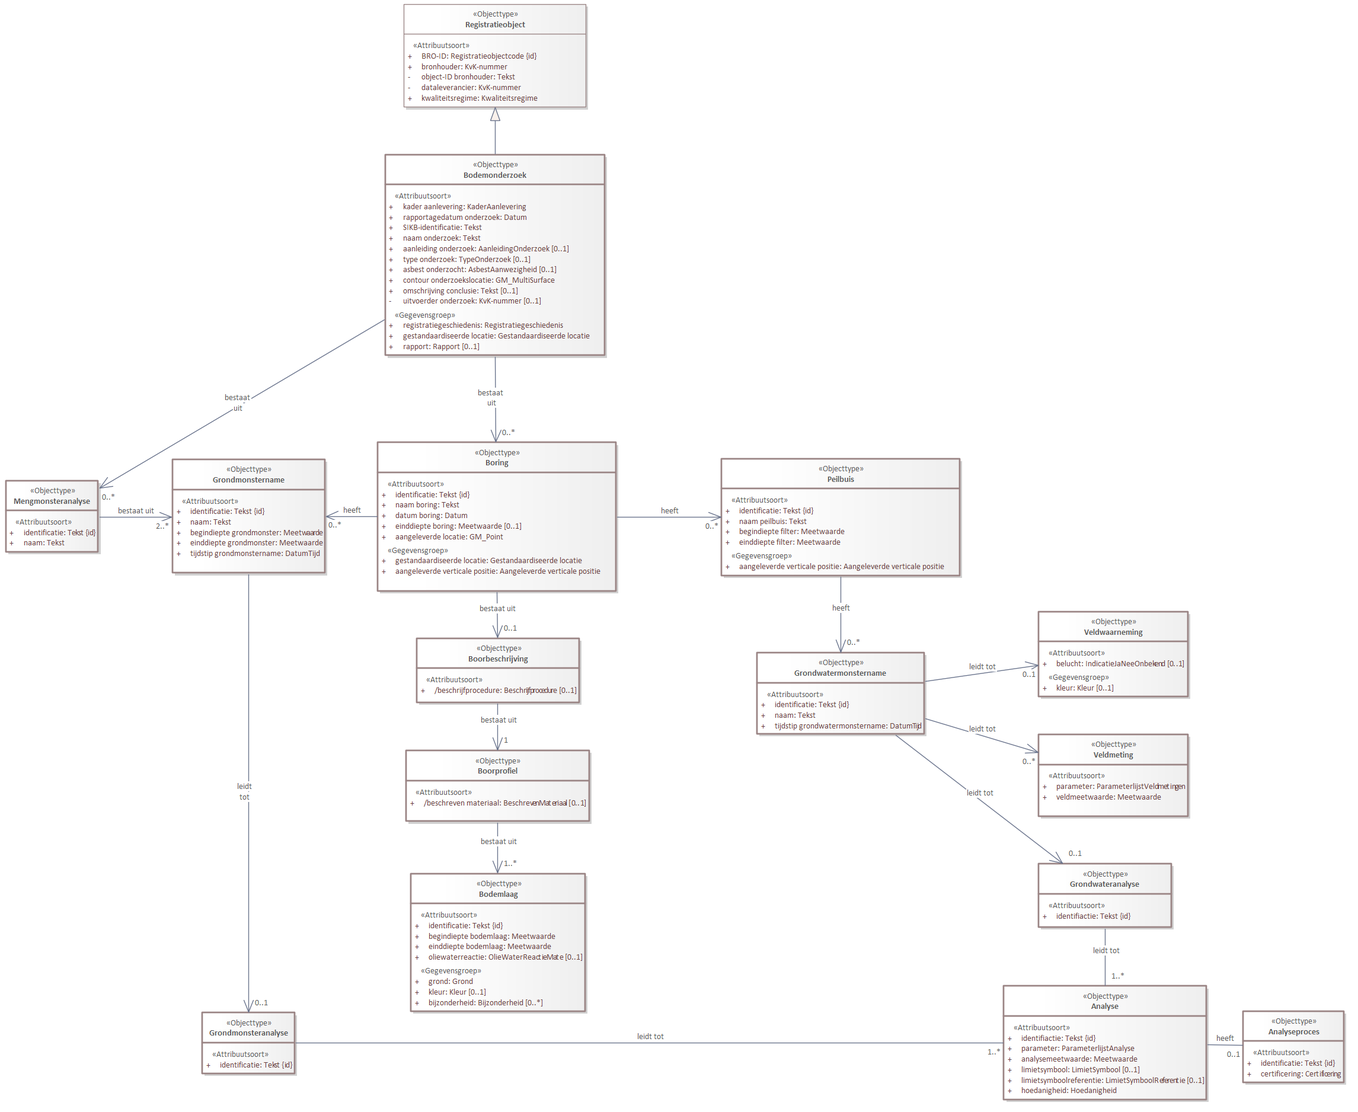
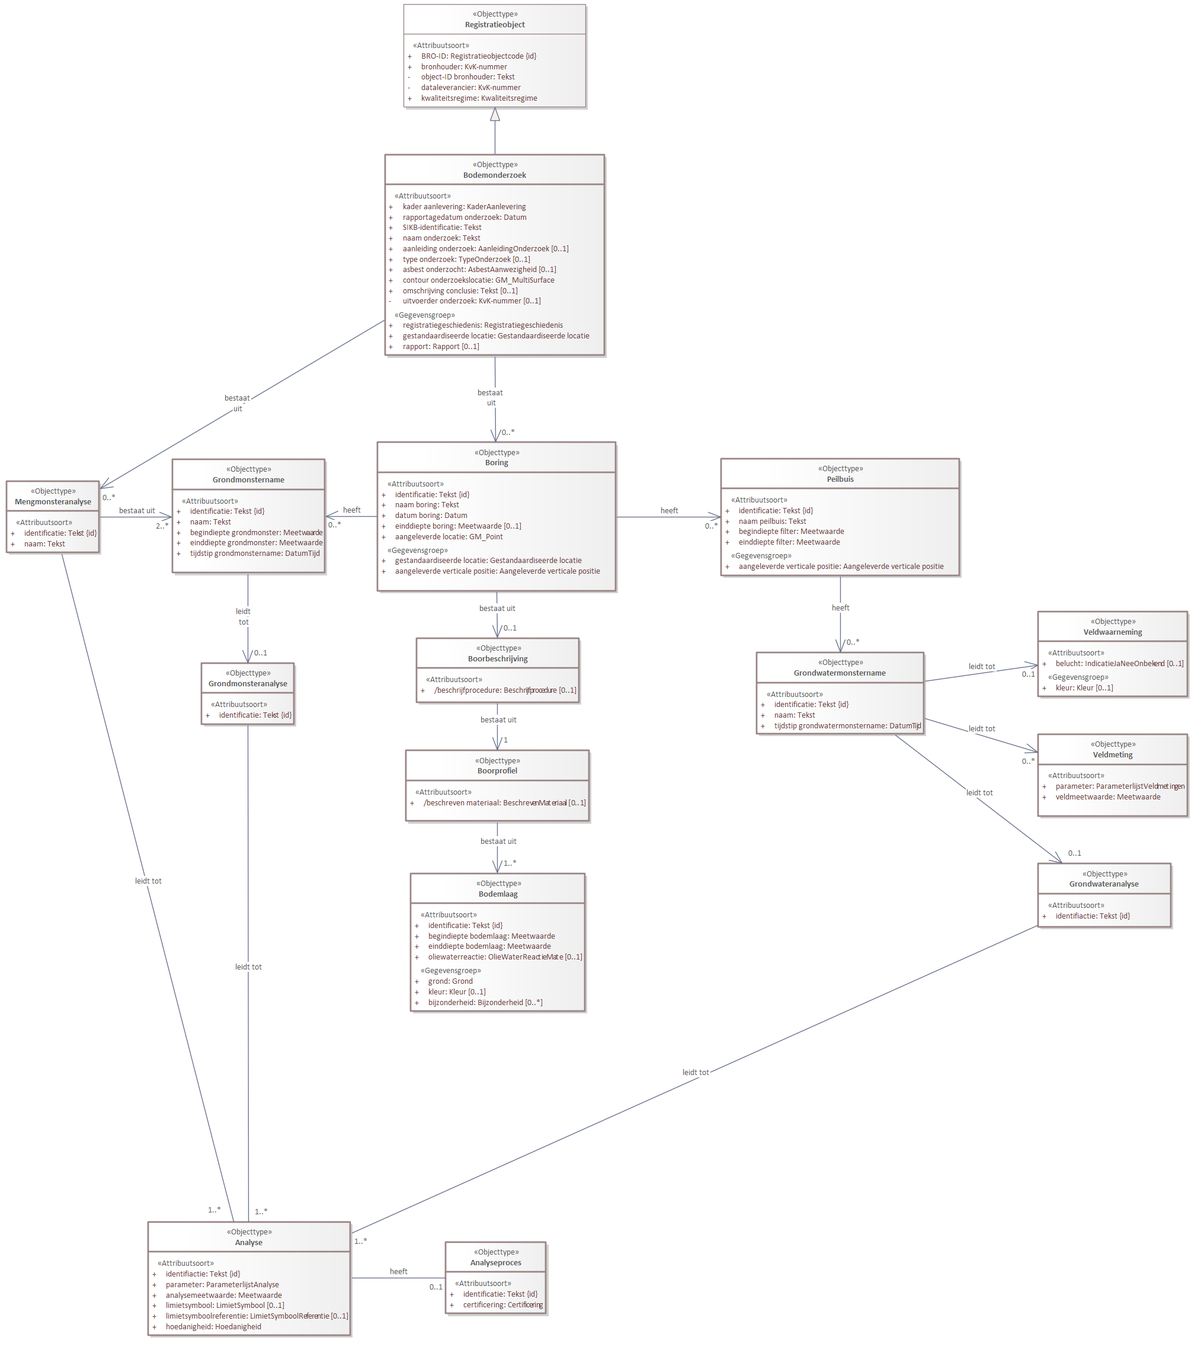
Conceptualmodel-MilieuhygienischbodemonderzoekSAD-0.2-1-20230126-20230504-060329

diff --git a/data/SAD-cat.msword.html b/data/SAD-cat.msword.html
@@ -15,7 +15,7 @@
    <body>
       <p>Conceptual model/Milieuhygienisch bodemonderzoek SAD/20230126</p>
       <p>Imvertor: 2.0.0</p>
-      <p>Model release: Conceptualmodel-MilieuhygienischbodemonderzoekSAD-0.2-1-20230126-20230504-055813</p>
+      <p>Model release: Conceptualmodel-MilieuhygienischbodemonderzoekSAD-0.2-1-20230126-20230504-060329</p>
       <hr>
       <section>
          <h1>Artikel 1 Definitie van registratieobject, entiteiten en attributen</h1>
@@ -65,7 +65,7 @@
          <section>
             <h2>Het domeinmodel</h2>
             <section id="">
-               <div class="imageinfo overview"><img src="Images/EAID_FABA90F8_223C_433d_BAE3_74F87B3DC220.png" usemap="#imagemap-EAID_FABA90F8_223C_433d_BAE3_74F87B3DC220" alt="Diagram &#xA;                        &#xA;                     "><map name="imagemap-EAID_FABA90F8_223C_433d_BAE3_74F87B3DC220"><area shape="rect" alt="Analyseproces" coords="2097,1706,2268,1827" href="#graph_EAID_89FCADC6_B091_492b_94BD_37324C7637EA"><area shape="rect" alt="Analyse" coords="1693,1663,2036,1856" href="#graph_EAID_AE9CD58D_588C_44cf_A7B7_09EDB181B001"><area shape="rect" alt="Grondwateranalyse" coords="1752,1457,1977,1565" href="#graph_EAID_50237BC0_6FD9_482a_841F_A44137C00FCA"><area shape="rect" alt="Grondmonsteranalyse" coords="341,1708,498,1812" href="#graph_EAID_DFC0DB4F_7DC8_4920_917A_907819C6EC19"><area shape="rect" alt="Boorprofiel" coords="685,1266,995,1386" href="#graph_EAID_6CF3D55E_1BD5_4108_BEA5_8B69EB2D2097"><area shape="rect" alt="Boorbeschrijving" coords="703,1077,978,1186" href="#graph_EAID_080E44E6_527C_42db_BCF3_7400257377C2"><area shape="rect" alt="Veldmeting" coords="1752,1239,2005,1378" href="#graph_EAID_C348E314_A61B_43a0_AFED_083DA812EC5F"><area shape="rect" alt="Veldwaarneming" coords="1752,1032,2005,1176" href="#graph_EAID_A3A8A9F5_B12D_47e9_9D67_F12687999F0D"><area shape="rect" alt="Mengmonsteranalyse" coords="10,811,166,932" href="#graph_EAID_E7A3C99D_3348_4875_9BD5_4E0481E72C54"><area shape="rect" alt="Grondwatermonstername" coords="1277,1101,1560,1239" href="#graph_EAID_24B6DB20_4EA3_453f_B195_E642F22CC27C"><area shape="rect" alt="Grondmonstername" coords="291,775,549,967" href="#graph_EAID_8A8D6A0E_DAF9_415a_9AE7_09155A2C5869"><area shape="rect" alt="Peilbuis" coords="1217,774,1620,972" href="#graph_EAID_0075B243_E663_4ee7_9154_9D5DE12CCB21"><area shape="rect" alt="Bodemlaag" coords="693,1474,988,1707" href="#graph_EAID_88CF9E45_3E0E_40da_96C1_2CDD80B69F6F"><area shape="rect" alt="Boring" coords="637,746,1040,998" href="#graph_EAID_40FFF5B9_99C5_4c21_9D72_A3D1DD3C857F"><area shape="rect" alt="Registratieobject" coords="681,7,989,181" href="#graph_EAID_67DBE718_38E0_4ead_8649_72EA0B4A2355"><area shape="rect" alt="Bodemonderzoek" coords="650,261,1021,600" href="#graph_EAID_ABAADB49_C747_4775_A739_CC832CAD59F1"></map><p><b>Domeinmodel milieuhygienisch bodemonderzoek</b></p>
+               <div class="imageinfo overview"><img src="Images/EAID_FABA90F8_223C_433d_BAE3_74F87B3DC220.png" usemap="#imagemap-EAID_FABA90F8_223C_433d_BAE3_74F87B3DC220" alt="Diagram &#xA;                        &#xA;                     "><map name="imagemap-EAID_FABA90F8_223C_433d_BAE3_74F87B3DC220"><area shape="rect" alt="Analyseproces" coords="752,2096,922,2217" href="#graph_EAID_89FCADC6_B091_492b_94BD_37324C7637EA"><area shape="rect" alt="Analyse" coords="250,2062,592,2254" href="#graph_EAID_AE9CD58D_588C_44cf_A7B7_09EDB181B001"><area shape="rect" alt="Grondwateranalyse" coords="1752,1457,1977,1565" href="#graph_EAID_50237BC0_6FD9_482a_841F_A44137C00FCA"><area shape="rect" alt="Grondmonsteranalyse" coords="340,1119,497,1223" href="#graph_EAID_DFC0DB4F_7DC8_4920_917A_907819C6EC19"><area shape="rect" alt="Boorprofiel" coords="685,1266,995,1386" href="#graph_EAID_6CF3D55E_1BD5_4108_BEA5_8B69EB2D2097"><area shape="rect" alt="Boorbeschrijving" coords="703,1077,978,1186" href="#graph_EAID_080E44E6_527C_42db_BCF3_7400257377C2"><area shape="rect" alt="Veldmeting" coords="1752,1239,2005,1378" href="#graph_EAID_C348E314_A61B_43a0_AFED_083DA812EC5F"><area shape="rect" alt="Veldwaarneming" coords="1752,1032,2005,1176" href="#graph_EAID_A3A8A9F5_B12D_47e9_9D67_F12687999F0D"><area shape="rect" alt="Mengmonsteranalyse" coords="11,812,168,933" href="#graph_EAID_E7A3C99D_3348_4875_9BD5_4E0481E72C54"><area shape="rect" alt="Grondwatermonstername" coords="1277,1101,1560,1239" href="#graph_EAID_24B6DB20_4EA3_453f_B195_E642F22CC27C"><area shape="rect" alt="Grondmonstername" coords="291,775,549,967" href="#graph_EAID_8A8D6A0E_DAF9_415a_9AE7_09155A2C5869"><area shape="rect" alt="Peilbuis" coords="1217,774,1620,972" href="#graph_EAID_0075B243_E663_4ee7_9154_9D5DE12CCB21"><area shape="rect" alt="Bodemlaag" coords="693,1474,988,1707" href="#graph_EAID_88CF9E45_3E0E_40da_96C1_2CDD80B69F6F"><area shape="rect" alt="Boring" coords="637,746,1040,998" href="#graph_EAID_40FFF5B9_99C5_4c21_9D72_A3D1DD3C857F"><area shape="rect" alt="Registratieobject" coords="681,7,989,181" href="#graph_EAID_67DBE718_38E0_4ead_8649_72EA0B4A2355"><area shape="rect" alt="Bodemonderzoek" coords="650,261,1021,600" href="#graph_EAID_ABAADB49_C747_4775_A739_CC832CAD59F1"></map><p><b>Domeinmodel milieuhygienisch bodemonderzoek</b></p>
                </div>
             </section>
          </section>
@@ -578,7 +578,7 @@
                            </tr>
                         </tbody>
                      </table>
-                     </section><a class="anchor" id="detail_d92947e3450"></a><section id="detail_d92947e3450">
+                     </section><a class="anchor" id="detail_d93187e3450"></a><section id="detail_d93187e3450">
                      <h4>  registratiegeschiedenis</h4>
                      <table style="width: 100%;">
                         <colgroup style="width: 30%;"></colgroup>
@@ -611,7 +611,7 @@
                            </tr>
                         </tbody>
                      </table>
-                  </section><a class="anchor" id="detail_d92947e3635"></a><section id="detail_d92947e3635">
+                  </section><a class="anchor" id="detail_d93187e3635"></a><section id="detail_d93187e3635">
                      <h4>  gestandaardiseerde locatie</h4>
                      <table style="width: 100%;">
                         <colgroup style="width: 30%;"></colgroup>
@@ -654,7 +654,7 @@
                            </tr>
                         </tbody>
                      </table>
-                  </section><a class="anchor" id="detail_d92947e3869"></a><section id="detail_d92947e3869">
+                  </section><a class="anchor" id="detail_d93187e3869"></a><section id="detail_d93187e3869">
                      <h4>  rapport</h4>
                      <table style="width: 100%;">
                         <colgroup style="width: 30%;"></colgroup>
@@ -1845,7 +1845,7 @@
                            </tr>
                         </tbody>
                      </table>
-                     </section><a class="anchor" id="detail_d92947e8500"></a><section id="detail_d92947e8500">
+                     </section><a class="anchor" id="detail_d93187e8500"></a><section id="detail_d93187e8500">
                      <h4>  gestandaardiseerde locatie</h4>
                      <table style="width: 100%;">
                         <colgroup style="width: 30%;"></colgroup>
@@ -1879,7 +1879,7 @@
                            </tr>
                         </tbody>
                      </table>
-                  </section><a class="anchor" id="detail_d92947e8685"></a><section id="detail_d92947e8685">
+                  </section><a class="anchor" id="detail_d93187e8685"></a><section id="detail_d93187e8685">
                      <h4>  aangeleverde verticale positie</h4>
                      <table style="width: 100%;">
                         <colgroup style="width: 30%;"></colgroup>
@@ -2680,7 +2680,7 @@
                            </tr>
                         </tbody>
                      </table>
-                     </section><a class="anchor" id="detail_d92947e11206"></a><section id="detail_d92947e11206">
+                     </section><a class="anchor" id="detail_d93187e11206"></a><section id="detail_d93187e11206">
                      <h4>  grond</h4>
                      <table style="width: 100%;">
                         <colgroup style="width: 30%;"></colgroup>
@@ -2713,7 +2713,7 @@
                            </tr>
                         </tbody>
                      </table>
-                  </section><a class="anchor" id="detail_d92947e11391"></a><section id="detail_d92947e11391">
+                  </section><a class="anchor" id="detail_d93187e11391"></a><section id="detail_d93187e11391">
                      <h4>  kleur</h4>
                      <table style="width: 100%;">
                         <colgroup style="width: 30%;"></colgroup>
@@ -2746,7 +2746,7 @@
                            </tr>
                         </tbody>
                      </table>
-                  </section><a class="anchor" id="detail_d92947e11576"></a><section id="detail_d92947e11576">
+                  </section><a class="anchor" id="detail_d93187e11576"></a><section id="detail_d93187e11576">
                      <h4>  bijzonderheid</h4>
                      <table style="width: 100%;">
                         <colgroup style="width: 30%;"></colgroup>
@@ -3823,7 +3823,49 @@
                            </tr>
                         </tbody>
                      </table>
-                     </section><a class="anchor" id="detail_association_Model_Mengmonsteranalyse_Grondmonstername"></a><section id="detail_association_Model_Mengmonsteranalyse_Grondmonstername">
+                     </section><a class="anchor" id="detail_association_Model_Mengmonsteranalyse_Mengmonsteranalyse"></a><section id="detail_association_Model_Mengmonsteranalyse_Mengmonsteranalyse">
+                     <h4>  Mengmonsteranalyse</h4>
+                     <table style="width: 100%;">
+                        <colgroup style="width: 30%;"></colgroup>
+                        <colgroup style="width: 70%;"></colgroup>
+                        <tbody>
+                           <tr>
+                              <th>Type gegeven</th>
+                              <td>Associatie van Mengmonsteranalyse</td>
+                           </tr>
+                           <tr>
+                              <th>Definitie</th>
+                              <td>
+                                 
+                                 <p>De uitkomsten van de metingen aan parameters die in het laboratorium aan het gemengde
+                                    grondmonsters zijn uitgevoerd.</p>
+                                 </td>
+                           </tr>
+                           <tr>
+                              <th>Kardinaliteit</th>
+                              <td>1..*</td>
+                           </tr>
+                           <tr>
+                              <th>Relatiesoort naam</th>
+                              <td>leidt tot</td>
+                           </tr>
+                           <tr>
+                              <th>Relatierol naam</th>
+                              <td>Mengmonsteranalyse</td>
+                           </tr>
+                           <tr>
+                              <th>Bron</th>
+                              <td>Mengmonsteranalyse</td>
+                           </tr>
+                           <tr>
+                              <th>Doel</th>
+                              <td>
+                                 Analyse
+                                 </td>
+                           </tr>
+                        </tbody>
+                     </table>
+                  </section><a class="anchor" id="detail_association_Model_Mengmonsteranalyse_Grondmonstername"></a><section id="detail_association_Model_Mengmonsteranalyse_Grondmonstername">
                      <h4>  Grondmonstername</h4>
                      <table style="width: 100%;">
                         <colgroup style="width: 30%;"></colgroup>
@@ -4060,7 +4102,7 @@
                            </tr>
                         </tbody>
                      </table>
-                     </section><a class="anchor" id="detail_d92947e16706"></a><section id="detail_d92947e16706">
+                     </section><a class="anchor" id="detail_d93187e16865"></a><section id="detail_d93187e16865">
                      <h4>  aangeleverde verticale positie</h4>
                      <table style="width: 100%;">
                         <colgroup style="width: 30%;"></colgroup>
@@ -4466,7 +4508,7 @@
                            </tr>
                         </tbody>
                      </table>
-                     </section><a class="anchor" id="detail_d92947e18161"></a><section id="detail_d92947e18161">
+                     </section><a class="anchor" id="detail_d93187e18320"></a><section id="detail_d93187e18320">
                      <h4>  kleur</h4>
                      <table style="width: 100%;">
                         <colgroup style="width: 30%;"></colgroup>

diff --git a/data/SAD-cat.respec.html b/data/SAD-cat.respec.html
@@ -43,7 +43,7 @@
       </section>
    <section id="">
       <h2>Het domeinmodel   </h2>
-      <div class="imageinfo overview"><img src="data/Images/EAID_FABA90F8_223C_433d_BAE3_74F87B3DC220.png" usemap="#imagemap-EAID_FABA90F8_223C_433d_BAE3_74F87B3DC220" alt="Diagram &#xA;                        &#xA;                     "><map name="imagemap-EAID_FABA90F8_223C_433d_BAE3_74F87B3DC220"><area shape="rect" alt="Analyseproces" coords="2097,1706,2268,1827" href="#graph_EAID_89FCADC6_B091_492b_94BD_37324C7637EA"><area shape="rect" alt="Analyse" coords="1693,1663,2036,1856" href="#graph_EAID_AE9CD58D_588C_44cf_A7B7_09EDB181B001"><area shape="rect" alt="Grondwateranalyse" coords="1752,1457,1977,1565" href="#graph_EAID_50237BC0_6FD9_482a_841F_A44137C00FCA"><area shape="rect" alt="Grondmonsteranalyse" coords="341,1708,498,1812" href="#graph_EAID_DFC0DB4F_7DC8_4920_917A_907819C6EC19"><area shape="rect" alt="Boorprofiel" coords="685,1266,995,1386" href="#graph_EAID_6CF3D55E_1BD5_4108_BEA5_8B69EB2D2097"><area shape="rect" alt="Boorbeschrijving" coords="703,1077,978,1186" href="#graph_EAID_080E44E6_527C_42db_BCF3_7400257377C2"><area shape="rect" alt="Veldmeting" coords="1752,1239,2005,1378" href="#graph_EAID_C348E314_A61B_43a0_AFED_083DA812EC5F"><area shape="rect" alt="Veldwaarneming" coords="1752,1032,2005,1176" href="#graph_EAID_A3A8A9F5_B12D_47e9_9D67_F12687999F0D"><area shape="rect" alt="Mengmonsteranalyse" coords="10,811,166,932" href="#graph_EAID_E7A3C99D_3348_4875_9BD5_4E0481E72C54"><area shape="rect" alt="Grondwatermonstername" coords="1277,1101,1560,1239" href="#graph_EAID_24B6DB20_4EA3_453f_B195_E642F22CC27C"><area shape="rect" alt="Grondmonstername" coords="291,775,549,967" href="#graph_EAID_8A8D6A0E_DAF9_415a_9AE7_09155A2C5869"><area shape="rect" alt="Peilbuis" coords="1217,774,1620,972" href="#graph_EAID_0075B243_E663_4ee7_9154_9D5DE12CCB21"><area shape="rect" alt="Bodemlaag" coords="693,1474,988,1707" href="#graph_EAID_88CF9E45_3E0E_40da_96C1_2CDD80B69F6F"><area shape="rect" alt="Boring" coords="637,746,1040,998" href="#graph_EAID_40FFF5B9_99C5_4c21_9D72_A3D1DD3C857F"><area shape="rect" alt="Registratieobject" coords="681,7,989,181" href="#graph_EAID_67DBE718_38E0_4ead_8649_72EA0B4A2355"><area shape="rect" alt="Bodemonderzoek" coords="650,261,1021,600" href="#graph_EAID_ABAADB49_C747_4775_A739_CC832CAD59F1"></map><p><b>Domeinmodel milieuhygienisch bodemonderzoek</b></p>
+      <div class="imageinfo overview"><img src="data/Images/EAID_FABA90F8_223C_433d_BAE3_74F87B3DC220.png" usemap="#imagemap-EAID_FABA90F8_223C_433d_BAE3_74F87B3DC220" alt="Diagram &#xA;                        &#xA;                     "><map name="imagemap-EAID_FABA90F8_223C_433d_BAE3_74F87B3DC220"><area shape="rect" alt="Analyseproces" coords="752,2096,922,2217" href="#graph_EAID_89FCADC6_B091_492b_94BD_37324C7637EA"><area shape="rect" alt="Analyse" coords="250,2062,592,2254" href="#graph_EAID_AE9CD58D_588C_44cf_A7B7_09EDB181B001"><area shape="rect" alt="Grondwateranalyse" coords="1752,1457,1977,1565" href="#graph_EAID_50237BC0_6FD9_482a_841F_A44137C00FCA"><area shape="rect" alt="Grondmonsteranalyse" coords="340,1119,497,1223" href="#graph_EAID_DFC0DB4F_7DC8_4920_917A_907819C6EC19"><area shape="rect" alt="Boorprofiel" coords="685,1266,995,1386" href="#graph_EAID_6CF3D55E_1BD5_4108_BEA5_8B69EB2D2097"><area shape="rect" alt="Boorbeschrijving" coords="703,1077,978,1186" href="#graph_EAID_080E44E6_527C_42db_BCF3_7400257377C2"><area shape="rect" alt="Veldmeting" coords="1752,1239,2005,1378" href="#graph_EAID_C348E314_A61B_43a0_AFED_083DA812EC5F"><area shape="rect" alt="Veldwaarneming" coords="1752,1032,2005,1176" href="#graph_EAID_A3A8A9F5_B12D_47e9_9D67_F12687999F0D"><area shape="rect" alt="Mengmonsteranalyse" coords="11,812,168,933" href="#graph_EAID_E7A3C99D_3348_4875_9BD5_4E0481E72C54"><area shape="rect" alt="Grondwatermonstername" coords="1277,1101,1560,1239" href="#graph_EAID_24B6DB20_4EA3_453f_B195_E642F22CC27C"><area shape="rect" alt="Grondmonstername" coords="291,775,549,967" href="#graph_EAID_8A8D6A0E_DAF9_415a_9AE7_09155A2C5869"><area shape="rect" alt="Peilbuis" coords="1217,774,1620,972" href="#graph_EAID_0075B243_E663_4ee7_9154_9D5DE12CCB21"><area shape="rect" alt="Bodemlaag" coords="693,1474,988,1707" href="#graph_EAID_88CF9E45_3E0E_40da_96C1_2CDD80B69F6F"><area shape="rect" alt="Boring" coords="637,746,1040,998" href="#graph_EAID_40FFF5B9_99C5_4c21_9D72_A3D1DD3C857F"><area shape="rect" alt="Registratieobject" coords="681,7,989,181" href="#graph_EAID_67DBE718_38E0_4ead_8649_72EA0B4A2355"><area shape="rect" alt="Bodemonderzoek" coords="650,261,1021,600" href="#graph_EAID_ABAADB49_C747_4775_A739_CC832CAD59F1"></map><p><b>Domeinmodel milieuhygienisch bodemonderzoek</b></p>
       </div>
    </section>
    <section id="">
@@ -554,7 +554,7 @@
                   </tr>
                </tbody>
             </table>
-            </section><a class="anchor" id="detail_d92947e3450"></a><section id="detail_d92947e3450">
+            </section><a class="anchor" id="detail_d93187e3450"></a><section id="detail_d93187e3450">
             <h4>  registratiegeschiedenis</h4>
             <table style="width: 100%;">
                <colgroup style="width: 30%;"></colgroup>
@@ -587,7 +587,7 @@
                   </tr>
                </tbody>
             </table>
-         </section><a class="anchor" id="detail_d92947e3635"></a><section id="detail_d92947e3635">
+         </section><a class="anchor" id="detail_d93187e3635"></a><section id="detail_d93187e3635">
             <h4>  gestandaardiseerde locatie</h4>
             <table style="width: 100%;">
                <colgroup style="width: 30%;"></colgroup>
@@ -630,7 +630,7 @@
                   </tr>
                </tbody>
             </table>
-         </section><a class="anchor" id="detail_d92947e3869"></a><section id="detail_d92947e3869">
+         </section><a class="anchor" id="detail_d93187e3869"></a><section id="detail_d93187e3869">
             <h4>  rapport</h4>
             <table style="width: 100%;">
                <colgroup style="width: 30%;"></colgroup>
@@ -1821,7 +1821,7 @@
                   </tr>
                </tbody>
             </table>
-            </section><a class="anchor" id="detail_d92947e8500"></a><section id="detail_d92947e8500">
+            </section><a class="anchor" id="detail_d93187e8500"></a><section id="detail_d93187e8500">
             <h4>  gestandaardiseerde locatie</h4>
             <table style="width: 100%;">
                <colgroup style="width: 30%;"></colgroup>
@@ -1855,7 +1855,7 @@
                   </tr>
                </tbody>
             </table>
-         </section><a class="anchor" id="detail_d92947e8685"></a><section id="detail_d92947e8685">
+         </section><a class="anchor" id="detail_d93187e8685"></a><section id="detail_d93187e8685">
             <h4>  aangeleverde verticale positie</h4>
             <table style="width: 100%;">
                <colgroup style="width: 30%;"></colgroup>
@@ -2656,7 +2656,7 @@
                   </tr>
                </tbody>
             </table>
-            </section><a class="anchor" id="detail_d92947e11206"></a><section id="detail_d92947e11206">
+            </section><a class="anchor" id="detail_d93187e11206"></a><section id="detail_d93187e11206">
             <h4>  grond</h4>
             <table style="width: 100%;">
                <colgroup style="width: 30%;"></colgroup>
@@ -2689,7 +2689,7 @@
                   </tr>
                </tbody>
             </table>
-         </section><a class="anchor" id="detail_d92947e11391"></a><section id="detail_d92947e11391">
+         </section><a class="anchor" id="detail_d93187e11391"></a><section id="detail_d93187e11391">
             <h4>  kleur</h4>
             <table style="width: 100%;">
                <colgroup style="width: 30%;"></colgroup>
@@ -2722,7 +2722,7 @@
                   </tr>
                </tbody>
             </table>
-         </section><a class="anchor" id="detail_d92947e11576"></a><section id="detail_d92947e11576">
+         </section><a class="anchor" id="detail_d93187e11576"></a><section id="detail_d93187e11576">
             <h4>  bijzonderheid</h4>
             <table style="width: 100%;">
                <colgroup style="width: 30%;"></colgroup>
@@ -3799,7 +3799,49 @@
                   </tr>
                </tbody>
             </table>
-            </section><a class="anchor" id="detail_association_Model_Mengmonsteranalyse_Grondmonstername"></a><section id="detail_association_Model_Mengmonsteranalyse_Grondmonstername">
+            </section><a class="anchor" id="detail_association_Model_Mengmonsteranalyse_Mengmonsteranalyse"></a><section id="detail_association_Model_Mengmonsteranalyse_Mengmonsteranalyse">
+            <h4>  Mengmonsteranalyse</h4>
+            <table style="width: 100%;">
+               <colgroup style="width: 30%;"></colgroup>
+               <colgroup style="width: 70%;"></colgroup>
+               <tbody>
+                  <tr>
+                     <th>Type gegeven</th>
+                     <td>Associatie van Mengmonsteranalyse</td>
+                  </tr>
+                  <tr>
+                     <th>Definitie</th>
+                     <td>
+                        
+                        <p>De uitkomsten van de metingen aan parameters die in het laboratorium aan het gemengde
+                           grondmonsters zijn uitgevoerd.</p>
+                        </td>
+                  </tr>
+                  <tr>
+                     <th>Kardinaliteit</th>
+                     <td>1..*</td>
+                  </tr>
+                  <tr>
+                     <th>Relatiesoort naam</th>
+                     <td>leidt tot</td>
+                  </tr>
+                  <tr>
+                     <th>Relatierol naam</th>
+                     <td>Mengmonsteranalyse</td>
+                  </tr>
+                  <tr>
+                     <th>Bron</th>
+                     <td>Mengmonsteranalyse</td>
+                  </tr>
+                  <tr>
+                     <th>Doel</th>
+                     <td>
+                        Analyse
+                        </td>
+                  </tr>
+               </tbody>
+            </table>
+         </section><a class="anchor" id="detail_association_Model_Mengmonsteranalyse_Grondmonstername"></a><section id="detail_association_Model_Mengmonsteranalyse_Grondmonstername">
             <h4>  Grondmonstername</h4>
             <table style="width: 100%;">
                <colgroup style="width: 30%;"></colgroup>
@@ -4036,7 +4078,7 @@
                   </tr>
                </tbody>
             </table>
-            </section><a class="anchor" id="detail_d92947e16706"></a><section id="detail_d92947e16706">
+            </section><a class="anchor" id="detail_d93187e16865"></a><section id="detail_d93187e16865">
             <h4>  aangeleverde verticale positie</h4>
             <table style="width: 100%;">
                <colgroup style="width: 30%;"></colgroup>
@@ -4442,7 +4484,7 @@
                   </tr>
                </tbody>
             </table>
-            </section><a class="anchor" id="detail_d92947e18161"></a><section id="detail_d92947e18161">
+            </section><a class="anchor" id="detail_d93187e18320"></a><section id="detail_d93187e18320">
             <h4>  kleur</h4>
             <table style="width: 100%;">
                <colgroup style="width: 30%;"></colgroup>
